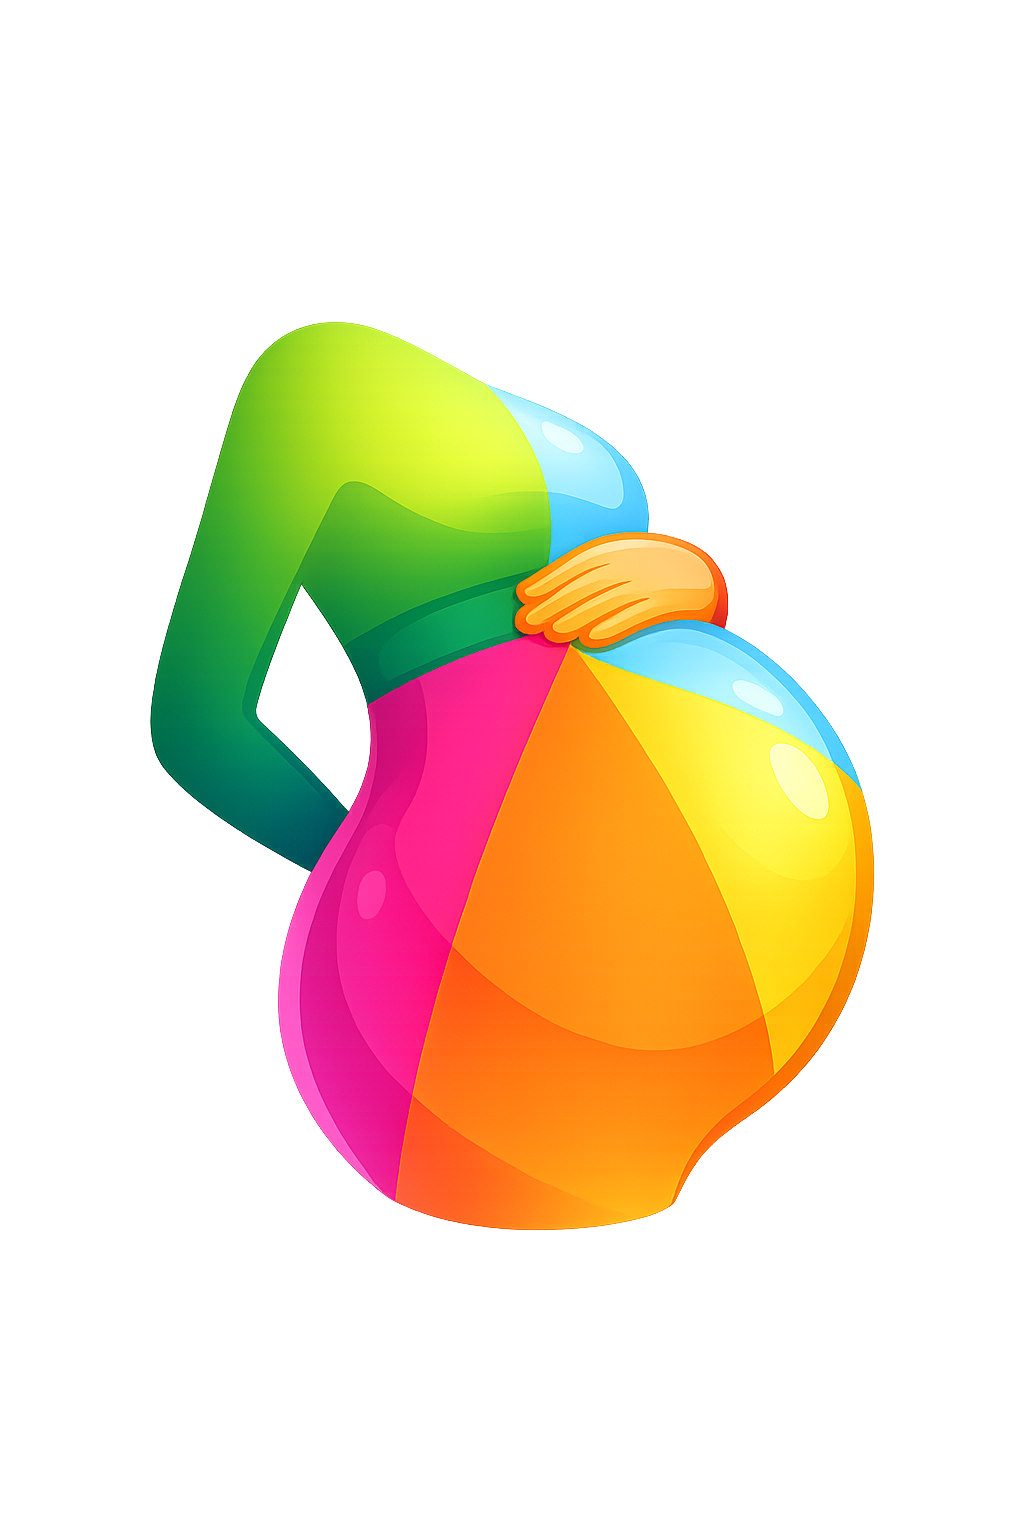
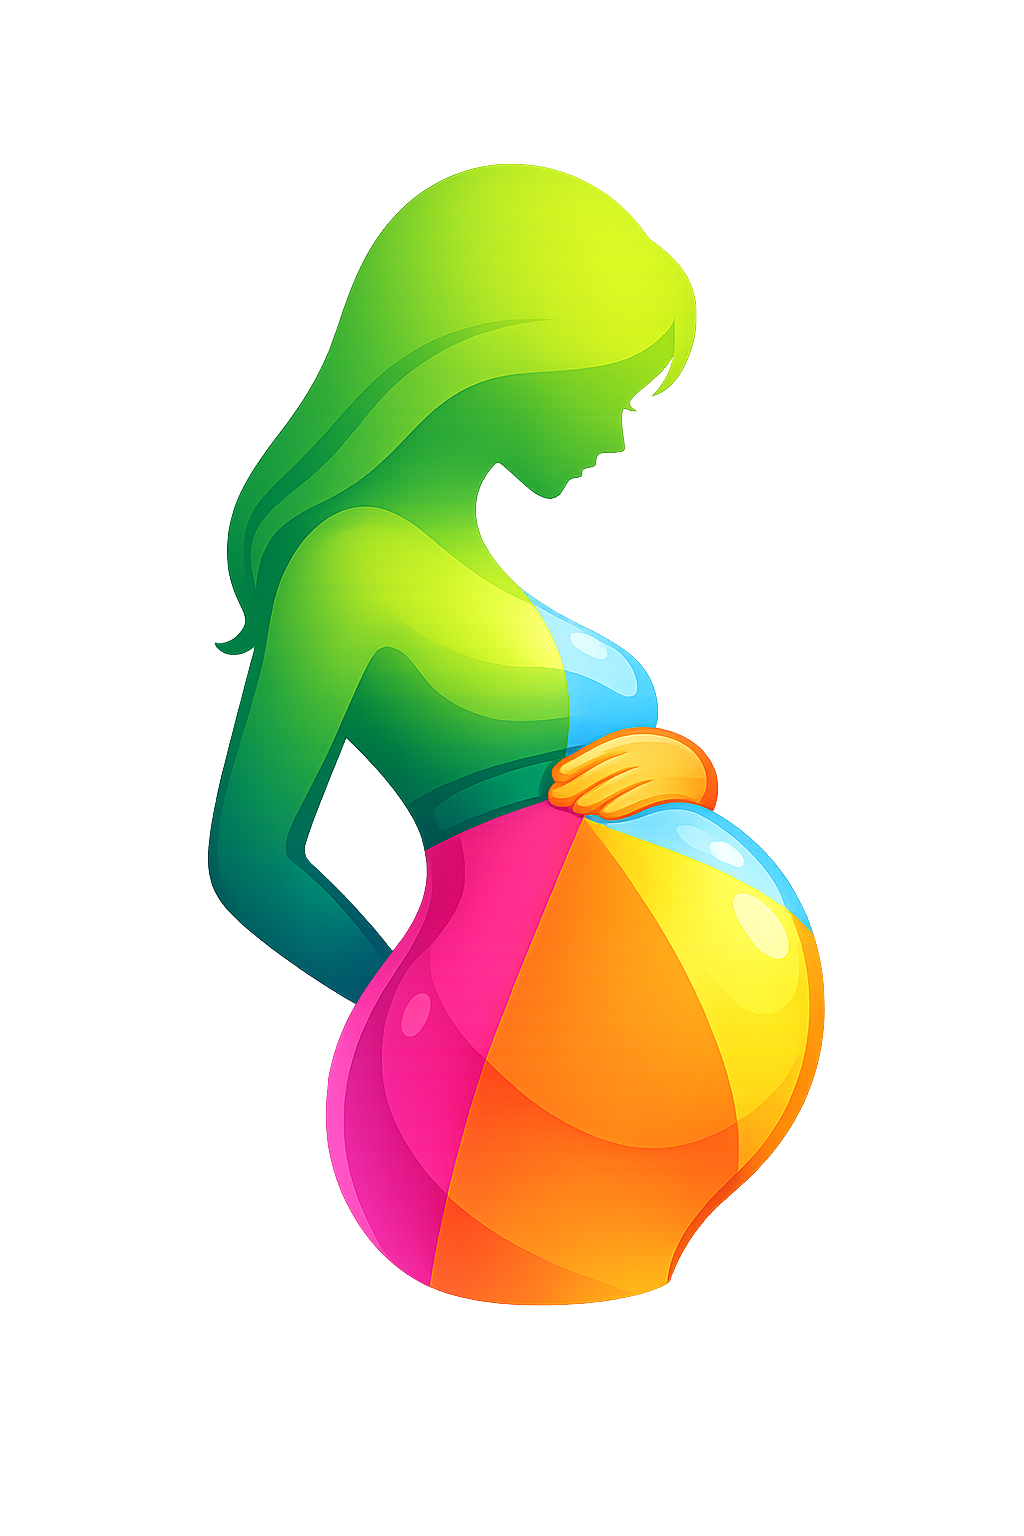
Pregnancy tracker: loss recording, due date override, fix confetti, new image
- New pregnant woman image (green hair colorful version)
- Record Pregnancy Loss: miscarriage, ectopic, chemical, other — clears pregnant status
- Heartbeat dialog: shows calculated due date (5-day embryo, transfer + 261 days)
  with optional manual override field
- Removed duplicate gestational age from top status bar (just shows icon)
- Pregnancy banner shows gestational age + due date without duplicate edit
- Small "Loss" link on pregnancy banner to record loss
- Confetti fires with 300ms delay after heartbeat confirmation
- Transfer history shows loss type if applicable

Changed region(s): [[0.125, 0.0938, 0.875, 0.875]]

diff --git a/src/pages/journeys/JourneyDetailPage.jsx b/src/pages/journeys/JourneyDetailPage.jsx
@@ -529,7 +529,8 @@ function ExpenseRow({ exp, onUpdate, onDelete, fmtCurrency, onPreview, gcCaseId 
 }
 
 // ── Pregnancy Tracker ───────────────────────────────────
-const TRANSFER_CALC_DAYS = 266 // embryo transfer + 266 days ≈ due date (38 weeks)
+// Ferring wheel: 5-day embryo transfer + 261 days = 40 weeks gestation
+const TRANSFER_CALC_DAYS = 261
 
 function PregnancyTracker({ journey, onUpdate, onPregnancyConfirmed }) {
   const jd = journey.journey_data || {}
@@ -539,6 +540,9 @@ function PregnancyTracker({ journey, onUpdate, onPregnancyConfirmed }) {
   const [betaOpen, setBetaOpen] = useState(null) // transfer index
   const [heartbeatOpen, setHeartbeatOpen] = useState(false)
   const [heartbeatDate, setHeartbeatDate] = useState('')
+  const [heartbeatDueDate, setHeartbeatDueDate] = useState('') // manual override
+  const [lossOpen, setLossOpen] = useState(false)
+  const [lossReason, setLossReason] = useState('')
   const [saving, setSaving] = useState(false)
 
   const latestTransfer = transfers.length > 0 ? transfers[transfers.length - 1] : null
@@ -580,16 +584,32 @@ function PregnancyTracker({ journey, onUpdate, onPregnancyConfirmed }) {
     const updated = [...transfers]
     const idx = updated.length - 1
     updated[idx] = { ...updated[idx], heartbeatConfirmed: true, heartbeatDate }
-    // Calculate due date from transfer date + 266 days
-    const transferDate = new Date(updated[idx].date)
-    const dueDate = new Date(transferDate.getTime() + TRANSFER_CALC_DAYS * 24 * 60 * 60 * 1000)
-    const dueDateStr = dueDate.toISOString().split('T')[0]
+    // Use manual due date if provided, otherwise calculate from transfer + 261 days (5-day embryo)
+    let dueDateStr = heartbeatDueDate
+    if (!dueDateStr) {
+      const transferDate = new Date(updated[idx].date)
+      const dueDate = new Date(transferDate.getTime() + TRANSFER_CALC_DAYS * 24 * 60 * 60 * 1000)
+      dueDateStr = dueDate.toISOString().split('T')[0]
+    }
     await onUpdate({ _transfers: updated, pregnant: 'yes', dueDate: dueDateStr })
     setHeartbeatOpen(false)
     setHeartbeatDate('')
+    setHeartbeatDueDate('')
     setSaving(false)
     // Fire confetti!
-    onPregnancyConfirmed()
+    setTimeout(() => onPregnancyConfirmed(), 300)
+  }
+
+  async function handlePregnancyLoss() {
+    if (!lossReason) return
+    setSaving(true)
+    const updated = [...transfers]
+    const idx = updated.length - 1
+    updated[idx] = { ...updated[idx], lossType: lossReason, lossDate: new Date().toISOString().split('T')[0] }
+    await onUpdate({ _transfers: updated, pregnant: 'no', dueDate: null })
+    setLossOpen(false)
+    setLossReason('')
+    setSaving(false)
   }
 
   // Timeline steps
@@ -617,12 +637,17 @@ function PregnancyTracker({ journey, onUpdate, onPregnancyConfirmed }) {
       {isPregnant && (
         <div className="rounded-xl bg-gradient-to-r from-pink-50 to-purple-50 border border-pink-200 p-4 mb-4">
           <div className="flex items-center gap-3">
-            <img src="/pregnant-woman.png" alt="Pregnant" className="size-10" />
+            <img src="/pregnant-woman.png" alt="Pregnant" className="size-12" />
             <div>
-              <p className="text-lg font-bold text-pink-600">{calcGestationalWeeks(jd.dueDate) || ''}</p>
-              <p className="text-sm text-stone-600">Due {formatDate(jd.dueDate)} <EditableTileInline value={jd.dueDate} onSave={v => onUpdate({ dueDate: v })} type="date" className="text-pink-600 text-xs" placeholder="Edit" /></p>
+              <p className="text-xl font-bold text-pink-600">{calcGestationalWeeks(jd.dueDate) || ''}</p>
+              <p className="text-sm text-stone-600">Due {formatDate(jd.dueDate)}</p>
             </div>
-            <Sparkles className="size-5 text-pink-400 ml-auto" />
+            <div className="ml-auto flex items-center gap-2">
+              <Sparkles className="size-5 text-pink-400" />
+              <button onClick={() => setLossOpen(true)} className="text-[10px] text-stone-400 hover:text-red-500 transition-colors" title="Record pregnancy loss">
+                Loss
+              </button>
+            </div>
           </div>
         </div>
       )}
@@ -752,22 +777,57 @@ function PregnancyTracker({ journey, onUpdate, onPregnancyConfirmed }) {
           <DialogHeader><DialogTitle className="flex items-center gap-2"><HeartPulse className="size-5 text-pink-500" /> Confirm Heartbeat</DialogTitle></DialogHeader>
           <div className="space-y-3">
             <div className="rounded-lg bg-pink-50 border border-pink-200 p-3">
-              <p className="text-sm text-pink-800">Confirming a heartbeat will mark this journey as <strong>pregnant</strong> and calculate the due date from the transfer date.</p>
+              <p className="text-sm text-pink-800">Confirming a heartbeat will mark this journey as <strong>pregnant</strong>.</p>
             </div>
             <div className="space-y-1">
               <label className="text-[11px] text-stone-400 font-medium">Heartbeat Confirmed Date *</label>
               <Input type="date" value={heartbeatDate} onChange={e => setHeartbeatDate(e.target.value)} className="h-9" />
             </div>
-            {heartbeatDate && latestTransfer && (
-              <p className="text-xs text-stone-500">
-                Estimated due date: <strong className="text-pink-600">{formatDate(new Date(new Date(latestTransfer.date).getTime() + TRANSFER_CALC_DAYS * 24 * 60 * 60 * 1000).toISOString().split('T')[0])}</strong>
-              </p>
+            {latestTransfer && (
+              <div className="rounded-lg bg-stone-50 border border-stone-200 p-3 space-y-2">
+                <p className="text-xs text-stone-500">
+                  Calculated due date (5-day embryo): <strong className="text-pink-600">{formatDate(new Date(new Date(latestTransfer.date).getTime() + TRANSFER_CALC_DAYS * 24 * 60 * 60 * 1000).toISOString().split('T')[0])}</strong>
+                </p>
+                <div className="space-y-1">
+                  <label className="text-[11px] text-stone-400 font-medium">Override due date (optional)</label>
+                  <Input type="date" value={heartbeatDueDate} onChange={e => setHeartbeatDueDate(e.target.value)} className="h-9" placeholder="Leave blank to use calculated date" />
+                </div>
+              </div>
             )}
             <div className="flex gap-2 justify-end pt-2">
               <Button variant="outline" size="sm" onClick={() => setHeartbeatOpen(false)}>Cancel</Button>
               <Button size="sm" disabled={saving || !heartbeatDate} className="gap-1 bg-pink-600 hover:bg-pink-700 text-white" onClick={handleHeartbeat}>
                 {saving ? <Loader2 className="size-3 animate-spin" /> : <HeartPulse className="size-3" />}
                 Confirm Heartbeat
+              </Button>
+            </div>
+          </div>
+        </DialogContent>
+      </Dialog>
+
+      {/* Pregnancy Loss Dialog */}
+      <Dialog open={lossOpen} onOpenChange={setLossOpen}>
+        <DialogContent className="max-w-sm">
+          <DialogHeader><DialogTitle className="text-red-600">Record Pregnancy Loss</DialogTitle></DialogHeader>
+          <div className="space-y-3">
+            <div className="rounded-lg bg-red-50 border border-red-200 p-3">
+              <p className="text-sm text-red-800">This will clear the pregnancy status for this journey.</p>
+            </div>
+            <div className="space-y-1">
+              <label className="text-[11px] text-stone-400 font-medium">Type *</label>
+              <select value={lossReason} onChange={e => setLossReason(e.target.value)} className="w-full h-9 text-sm border border-stone-200 rounded-md px-2 bg-white">
+                <option value="">Select...</option>
+                <option value="miscarriage">Miscarriage</option>
+                <option value="ectopic">Ectopic Pregnancy</option>
+                <option value="chemical">Chemical Pregnancy</option>
+                <option value="other">Other</option>
+              </select>
+            </div>
+            <div className="flex gap-2 justify-end pt-2">
+              <Button variant="outline" size="sm" onClick={() => setLossOpen(false)}>Cancel</Button>
+              <Button size="sm" disabled={saving || !lossReason} variant="destructive" className="gap-1" onClick={handlePregnancyLoss}>
+                {saving ? <Loader2 className="size-3 animate-spin" /> : <X className="size-3" />}
+                Record Loss
               </Button>
             </div>
           </div>
@@ -1480,12 +1540,9 @@ export default function JourneyDetailPage() {
                     </div>
                   )}
                 </div>
-                {/* Pregnancy indicator in status bar */}
-                {jd.pregnant === 'yes' && jd.dueDate && (
-                  <div className="flex items-center gap-2 ml-1">
-                    <img src="/pregnant-woman.png" alt="Pregnant" className="size-6 inline-block mr-1" />
-                    <span className="text-2xl font-bold text-pink-600">{calcGestationalWeeks(jd.dueDate) || ''}</span>
-                  </div>
+                {/* Pregnancy indicator — just the icon, details in tracker below */}
+                {jd.pregnant === 'yes' && (
+                  <img src="/pregnant-woman.png" alt="Pregnant" className="size-8 ml-1" title={`${calcGestationalWeeks(jd.dueDate) || ''} — Due ${formatDate(jd.dueDate)}`} />
                 )}
               </div>
               <div className="flex items-center gap-3 shrink-0">

diff --git a/functions/api/admin-users.js b/functions/api/admin-users.js
@@ -35,7 +35,7 @@ export async function onRequestGet(context) {
     }
 
     const allUsers = data.users || []
-    const adminRoles = ['super_admin', 'master_admin', 'admin', 'marketing']
+    const adminRoles = ['super_admin', 'master_admin', 'admin']
     const admins = allUsers
       .filter(u => adminRoles.includes(u.user_metadata?.role))
       .map(u => ({

diff --git a/src/data/mock/users.js b/src/data/mock/users.js
@@ -4,6 +4,10 @@
 
 export let mockUsers = []
 
+export function getAdminStaff() {
+  return mockUsers.filter(u => ['super_admin', 'master_admin', 'admin'].includes(u.role))
+}
+
 export async function loadAdminUsers() {
   try {
     const res = await fetch('/api/admin-users')
